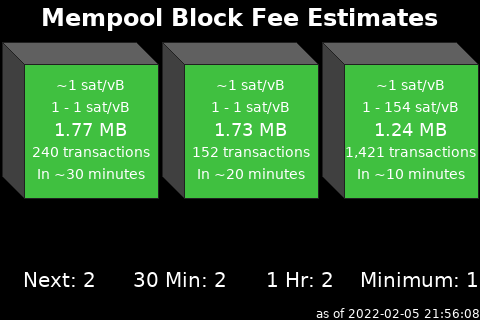
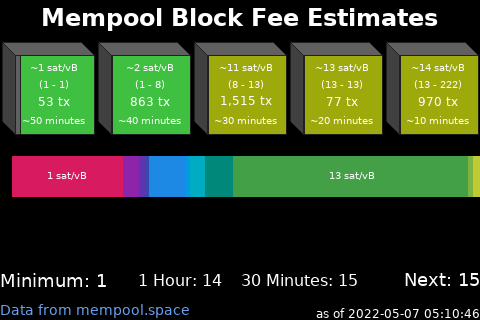
Add fee histogram to mempool panel

diff --git a/scripts/mempoolblocks.py b/scripts/mempoolblocks.py
@@ -19,7 +19,35 @@ def convert_size(size_bytes):
    s = round(size_bytes / p, 2)
    return "%s %s" % (s, size_name[i])
 
-def drawmempoolblock(draw,x,y,w,h,blockinfo,mpb):
+def getColorsForBlock(satFee):
+    satFee = float(satFee)
+    b = "#404040"
+    t = "#ffffff"
+    for x in blockSatLevels:
+        satMin = float(0.0)
+        satMax = float(0.0)
+        if "satMin" in x:
+            satMin = float(x["satMin"])
+        if "satMax" in x:
+            satMax = float(x["satMax"])
+        if satMin <= float(satFee):
+            if satMax >= float(satFee):
+                if "colorBlock" in x:
+                    b = x["colorBlock"]
+                if "colorText" in x:
+                    t = x["colorText"]
+    return ImageColor.getrgb(b), ImageColor.getrgb(t)
+
+def getColorForHistogram(satFee):
+    f = "#404040"
+    for x in histogramSatLevels:
+        if "satMin" in x and float(x["satMin"]) <= float(satFee):
+            if "satMax" in x and float(x["satMax"]) >= float(satFee):
+                if "colorFill" in x:
+                    f = x["colorFill"]
+    return ImageColor.getrgb(f)
+
+def drawmempoolblock(draw,x,y,w,h,blockinfo,mpb,mpblen,btr):
     blocksize=blockinfo["blockSize"]
     blockvsize=blockinfo["blockVSize"]
     transactions=blockinfo["nTx"]
@@ -32,19 +60,15 @@ def drawmempoolblock(draw,x,y,w,h,blockinfo,mpb):
     feemedianint = int(math.floor(float(feemedian)))
     depth=int(math.floor(w*.14))
     pad=2
-    colorBlockText = colorTextFG
-    colorBlockFace = colorBlock0
-    colorBlockFace = colorBlock1 if feelowint > satLevel1 else colorBlockFace
-    colorBlockFace = colorBlock2 if feelowint > satLevel2 else colorBlockFace
-    colorBlockFace = colorBlock3 if feelowint > satLevel3 else colorBlockFace
-    colorBlockFace = colorBlock4 if feelowint > satLevel4 else colorBlockFace
-    colorBlockFace = colorBlock5 if feelowint > satLevel5 else colorBlockFace
     draw.polygon(xy=((x+pad,y+pad),(x+pad,y+h-pad-depth),(x+pad+depth,y+h-pad),(x+pad+depth,y+pad+depth)),outline=colorBlockEdgeOutline,fill=colorBlockSide)
     draw.polygon(xy=((x+pad,y+pad),(x+pad+depth,y+pad+depth),(x+w-pad,y+pad+depth),(x+w-pad-depth,y+pad)),outline=colorBlockEdgeOutline,fill=colorBlockTop)
     draw.polygon(xy=((x+pad+depth,y+pad+depth),(x+w-pad,y+pad+depth),(x+w-pad,y+h-pad),(x+pad+depth,y+h-pad)),outline=colorBlockEdgeOutline,fill=colorBlockFace)
+    fillxstart=(x+w-pad)-int(float((x+w-pad)-(x+pad+depth))*float(float(blockvsize)/float(1000000)))
+    colorBlockFaceMedian, colorBlockText = getColorsForBlock(feemedian)
+    draw.polygon(xy=((fillxstart,y+pad+depth),(x+w-pad,y+pad+depth),(x+w-pad,y+h-pad),(fillxstart,y+h-pad)),outline=colorBlockEdgeOutline,fill=colorBlockFaceMedian)
     centerx=x+depth+(int(math.floor((w-depth)/2)))
     # Text labels
-    if blocksToRender == 3:
+    if btr <= 3:
         descriptor="~" + str(feemedianint) + " sat/vB"
         vicarioustext.drawcenteredtext(draw, descriptor, 14, centerx, y+pad+(depth*2),colorBlockText)
         descriptor=str(feelowint) + " - " + str(feehighint) + " sat/vB"
@@ -56,7 +80,7 @@ def drawmempoolblock(draw,x,y,w,h,blockinfo,mpb):
         vicarioustext.drawcenteredtext(draw, descriptor, 14, centerx, y+pad+(depth*5),colorBlockText)
         descriptor="In ~" + str((mpb+1)*10) + " minutes"
         vicarioustext.drawcenteredtext(draw, descriptor, 14, centerx, y+pad+(depth*6),colorBlockText)
-    if blocksToRender == 4:
+    if btr == 4:
         descriptor="~" + str(feemedianint) + " sat/vB"
         vicarioustext.drawcenteredtext(draw, descriptor, 12, centerx, y+pad+(depth*2),colorBlockText)
         descriptor="(" + str(feelowint) + " - " + str(feehighint) + ")"
@@ -68,7 +92,7 @@ def drawmempoolblock(draw,x,y,w,h,blockinfo,mpb):
         vicarioustext.drawcenteredtext(draw, descriptor, 12, centerx, y+pad+(depth*5),colorBlockText)
         descriptor="In ~" + str((mpb+1)*10) + " minutes"
         vicarioustext.drawcenteredtext(draw, descriptor, 12, centerx, y+pad+(depth*6),colorBlockText)
-    if blocksToRender == 5:
+    if btr == 5:
         descriptor="~" + str(feemedianint) + " sat/vB"
         vicarioustext.drawcenteredtext(draw, descriptor, 10, centerx, y+pad+(depth*2),colorBlockText)
         descriptor="(" + str(feelowint) + " - " + str(feehighint) + ")"
@@ -78,7 +102,7 @@ def drawmempoolblock(draw,x,y,w,h,blockinfo,mpb):
         vicarioustext.drawcenteredtext(draw, descriptor, 12, centerx, y+pad+(depth*4.6),colorBlockText)
         descriptor="~" + str((mpb+1)*10) + " minutes"
         vicarioustext.drawcenteredtext(draw, descriptor, 10, centerx, y+pad+(depth*6),colorBlockText)
-    if blocksToRender == 6:
+    if btr == 6:
         descriptor="~" + str(feemedianint) + " sat/vB"
         vicarioustext.drawcenteredtext(draw, descriptor, 9, centerx, y+pad+(depth*2),colorBlockText)
         descriptor="(" + str(feelowint) + " - " + str(feehighint) + ")"
@@ -87,25 +111,80 @@ def drawmempoolblock(draw,x,y,w,h,blockinfo,mpb):
         descriptor="~" + str((mpb+1)*10) + " mins"
         vicarioustext.drawcenteredtext(draw, descriptor, 9, centerx, y+pad+(depth*6),colorBlockText)
 
+def drawhistogrambar(draw,bw,curhistvsize,curhistsatfee,histx1,histx2,histy1,histy2,padtop):
+    histpixelwidth = int(float(bw) * (float(curhistvsize)/float(1000000)))
+    histtext = str(int(curhistsatfee)) + " sat/vB"
+    histtextw, histtexth, histtextfont = vicarioustext.gettextdimensions(draw, histtext, 10, False)
+    histcolor = getColorForHistogram(curhistsatfee)
+    histx1 = histx2 - histpixelwidth
+    draw.polygon(xy=((histx1,histy1),(histx2,histy1),(histx2,histy2),(histx1,histy2)),fill=histcolor)
+    if histtextw < histpixelwidth:
+        vicarioustext.drawcenteredtext(draw, histtext, 10, (histx1+int(histpixelwidth/2)), (histy1+int(padtop/2)))
+    return histx1
+
+
 def createimage(width=480, height=320):
-    mempoolblocks = getmempoolblocks()
-    feefastest, feehalfhour, feehour, feeminimum = getrecommendedfees()
-    bw = width/blocksToRender
     padtop=40
     im = Image.new(mode="RGB", size=(width, height), color=colorBackground)
     draw = ImageDraw.Draw(im)
+    # header
+    vicarioustext.drawcenteredtext(draw, "Mempool Block Fee Estimates", 24, int(width/2), int(padtop/2), colorTextFG, True)
+    # blocks
+    mempoolblocks = getmempoolblocks()
     mpblist=list(mempoolblocks)
     mpblen=len(mpblist)
+    btr=blocksToRender
+    btr=mpblen if btr > mpblen else btr
+    btr=3 if btr < 3 else btr
+    bw=width/btr
     for mpb in range(mpblen):
-        if mpb > (blocksToRender -1):
+        if mpb > (btr -1):
             break
-        drawmempoolblock(draw,(width-((mpb+1)*bw)),padtop,bw,bw,mpblist[mpb],mpb)
-    vicarioustext.drawcenteredtext(draw, "Mempool Block Fee Estimates", 24, int(width/2), int(padtop/2), colorTextFG, True)
+        drawmempoolblock(draw,(width-((mpb+1)*bw)),padtop,bw,bw,mpblist[mpb],mpb,mpblen,btr)
+    # histogram info
+    histogramdata = gethistograminfo()
+    histy1=padtop+bw+int(padtop/2)
+    histy2=histy1+padtop
+    histx1=0
+    histx2=width
+    histlist=list(histogramdata["fee_histogram"])
+    histlen=len(histlist)
+    curhistsatfee = 0 # to consolidate like fees
+    curhistvsize = 0
+    for histidx in range(histlen):
+        histrender = False
+        histsatfee = int(histlist[histidx][0])
+        histvsize = int(histlist[histidx][1])
+        if histidx == 0:
+            curhistsatfee = histsatfee
+            curhistvsize = histvsize
+            if histlen == 1:
+                histrender = True
+            else:
+                if int(histlist[histidx+1][0]) != histsatfee:
+                    histrender = True
+        else:
+            if histsatfee == curhistsatfee:
+                curhistvsize += histvsize
+            else:
+                histrender = True
+        if histrender:
+            histx1 = drawhistogrambar(draw,bw,curhistvsize,curhistsatfee,histx1,histx2,histy1,histy2,padtop)
+            histx2 = histx1
+            curhistsatfee = histsatfee
+            curhistvsize = histvsize
+            if histx2 <= 0:
+                break
+    histx1 = drawhistogrambar(draw,bw,curhistvsize,curhistsatfee,histx1,histx2,histy1,histy2,padtop)
+    # fee recommendations
+    feefastest, feehalfhour, feehour, feeminimum = getrecommendedfees()
     vicarioustext.drawlefttext(draw, "Minimum: " + str(feeminimum), 18, 0, height-padtop, colorTextFG)
     vicarioustext.drawcenteredtext(draw, "1 Hour: " + str(feehour), 16, int(width/8*3), height-padtop, colorTextFG)
     vicarioustext.drawcenteredtext(draw, "30 Minutes: " + str(feehalfhour), 16, int(width/8*5), height-padtop, colorTextFG)
     vicarioustext.drawrighttext(draw, "Next: " + str(feefastest), 18, width, height-padtop, colorTextFG)
+    # footer
     vicarioustext.drawbottomrighttext(draw, "as of " + vicarioustext.getdateandtime(), 12, width, height, colorTextFG)
+    vicarioustext.drawbottomlefttext(draw, "Data from mempool.space", 14, 0, height, colorMempool)
     im.save(outputFile)
 
 def getmempoolblocks():
@@ -128,6 +207,17 @@ def getrecommendedfees():
     except subprocess.CalledProcessError as e:
         return 1, 1, 1, 1
 
+def gethistograminfo():
+    cmd = "curl --silent " + urlfeehistogram
+    try:
+        cmdoutput = subprocess.check_output(cmd, shell=True).decode("utf-8")
+        j = json.loads(cmdoutput)
+        return j
+    except subprocess.CalledProcessError as e:
+        cmdoutput = '{"count":0,"vsize":0,"total_fee":0,"fee_histogram":[]}'
+        j = json.loads(cmdoutput)
+        return j
+
 
 if __name__ == '__main__':
     # Defaults
@@ -135,22 +225,45 @@ if __name__ == '__main__':
     outputFile="/home/nodeyez/nodeyez/imageoutput/mempoolblocks.png"
     urlmempool="https://mempool.space/api/v1/fees/mempool-blocks"
     urlfeerecs="https://mempool.space/api/v1/fees/recommended"
+    urlfeehistogram="https://mempool.space/api/mempool"
+    colorBackground=ImageColor.getrgb("#000000")
     colorBlockEdgeOutline=ImageColor.getrgb("#202020")
     colorBlockSide=ImageColor.getrgb("#404040")
-    colorBlockTop=ImageColor.getrgb("#606060")
+    colorBlockTop=ImageColor.getrgb("#505050")
+    colorBlockFace=ImageColor.getrgb("#606060")
     colorTextFG=ImageColor.getrgb("#ffffff")
-    colorBlock0=ImageColor.getrgb("#40C040")
-    colorBlock1=ImageColor.getrgb("#c0ca33")
-    colorBlock2=ImageColor.getrgb("#fdd835")
-    colorBlock3=ImageColor.getrgb("#f4511e")
-    colorBlock4=ImageColor.getrgb("#b71c1c")
-    colorBlock5=ImageColor.getrgb("#4a148c")
-    colorBackground=ImageColor.getrgb("#000000")
-    satLevel1=10
-    satLevel2=30
-    satLevel3=60
-    satLevel4=100
-    satLevel5=150
+    colorMempool=ImageColor.getrgb("#699fed")
+    blockSatLevels = [
+        {"satMin": 0.0, "satMax": 10.0, "colorBlock": "#40c040", "colorText": "#ffffff"},
+        {"satMin": 10.0, "satMax": 30.0, "colorBlock": "#9ea90b", "colorText": "#ffffff"},
+        {"satMin": 30.0, "satMax": 60.0, "colorBlock": "#d1ac08", "colorText": "#ffffff"},
+        {"satMin": 60.0, "satMax": 100.0, "colorBlock": "#f4511e", "colorText": "#ffffff"},
+        {"satMin": 100.0, "satMax": 150.0, "colorBlock": "#b71c1c", "colorText": "#ffffff"},
+        {"satMin": 150.0, "satMax": 9999.0, "colorBlock": "#4a148c", "colorText": "#ffffff"}
+    ]
+    histogramSatLevels = [
+        {"satMin": 0.0, "satMax": 2.0, "colorFill": "#d81b60"},
+        {"satMin": 2.0, "satMax": 3.0, "colorFill": "#8e24aa"},
+        {"satMin": 3.0, "satMax": 4.0, "colorFill": "#5e35b1"},
+        {"satMin": 4.0, "satMax": 5.0, "colorFill": "#3949ab"},
+        {"satMin": 5.0, "satMax": 6.0, "colorFill": "#1e88e5"},
+        {"satMin": 6.0, "satMax": 8.0, "colorFill": "#039be5"},
+        {"satMin": 8.0, "satMax": 10.0, "colorFill": "#00acc1"},
+        {"satMin": 10.0, "satMax": 12.0, "colorFill": "#00897b"},
+        {"satMin": 12.0, "satMax": 15.0, "colorFill": "#43a047"},
+        {"satMin": 15.0, "satMax": 20.0, "colorFill": "#7cb342"},
+        {"satMin": 20.0, "satMax": 30.0, "colorFill": "#c0ca33"},
+        {"satMin": 30.0, "satMax": 40.0, "colorFill": "#fdd835"},
+        {"satMin": 40.0, "satMax": 50.0, "colorFill": "#ffb300"},
+        {"satMin": 50.0, "satMax": 60.0, "colorFill": "#fb8c00"},
+        {"satMin": 60.0, "satMax": 70.0, "colorFill": "#f4511e"},
+        {"satMin": 70.0, "satMax": 80.0, "colorFill": "#6d4c41"},
+        {"satMin": 80.0, "satMax": 90.0, "colorFill": "#757575"},
+        {"satMin": 90.0, "satMax": 100.0, "colorFill": "#546e7a"},
+        {"satMin": 100.0, "satMax": 125.0, "colorFill": "#b71c1c"},
+        {"satMin": 125.0, "satMax": 150.0, "colorFill": "#880e4f"},
+        {"satMin": 150.0, "satMax": 9999.0, "colorFill": "#4a148c"}
+    ]
     blocksToRender=3
     sleepInterval=300
     # Override config
@@ -168,38 +281,22 @@ if __name__ == '__main__':
             sleepInterval = 300 if (sleepInterval < 300 and "mempool.space" in urlmempool) else sleepInterval # 5 minutes minimum when accessing others
         if "blocksToRender" in config:
             blocksToRender = int(config["blocksToRender"])
+            blocksToRender = 6 if blocksToRender > 6 else blocksToRender
+            blocksToRender = 3 if blocksToRender < 3 else blocksToRender
         if "colorBlockEdgeOutline" in config:
             colorBlockEdgeOutline = ImageColor.getrgb(config["colorBlockEdgeOutline"])
         if "colorBlockSide" in config:
             colorBlockSide = ImageColor.getrgb(config["colorBlockSide"])
         if "colorBlockTop" in config:
             colorBlockTop = ImageColor.getrgb(config["colorBlockTop"])
-        if "colortextFG" in config:
+        if "colorBlockFace" in config:
+            colorBlockFace = ImageColor.getrgb(config["colorBlockFace"])
+        if "colorTextFG" in config:
             colorTextFG = ImageColor.getrgb(config["colorTextFG"])
-        if "colorBlock0" in config:
-            colorBlock0 = ImageColor.getrgb(config["colorBlock0"])
-        if "colorBlock1" in config:
-            colorBlock1 = ImageColor.getrgb(config["colorBlock1"])
-        if "colorBlock2" in config:
-            colorBlock2 = ImageColor.getrgb(config["colorBlock2"])
-        if "colorBlock3" in config:
-            colorBlock3 = ImageColor.getrgb(config["colorBlock3"])
-        if "colorBlock4" in config:
-            colorBlock4 = ImageColor.getrgb(config["colorBlock4"])
-        if "colorBlock5" in config:
-            colorBlock6 = ImageColor.getrgb(config["colorBlock5"])
-        if "colorBackground" in config:
-            colorBackground = ImageColor.getrgb(config["colorBackground"])
-        if "satLevel1" in config:
-            satLevel1 = int(config["satLevel1"])
-        if "satLevel2" in config:
-            satLevel2 = int(config["satLevel2"])
-        if "satLevel3" in config:
-            satLevel3 = int(config["satLevel3"])
-        if "satLevel4" in config:
-            satLevel4 = int(config["satLevel4"])
-        if "satLevel5" in config:
-            satLevel5 = int(config["satLevel5"])
+        if "blockSatLevels" in config:
+            blockSatLevels = config["blockSatLevels"]
+        if "histogramSatLevels" in config:
+            histogramSatLevels = config["histogramSatLevels"]
 
     # Check for single run
     if len(sys.argv) > 1:

diff --git a/docs/script-mempoolblocks.md b/docs/script-mempoolblocks.md
@@ -40,21 +40,71 @@ at [/home/nodeyez/nodeyez/scripts/mempoolblocks.py](../scripts/mempoolblocks.py)
    | sleepInterval | The amount of time, in seconds, the script should wait before data gathering and image creation again. Default `300` |
    | urlmempool | The url for the mempool blocks information. If you are running your own mempool.space service on MyNodeBTC, then use http://127.0.0.1:4080/api/v1/fees/mempool-blocks. Default `https://mempool.space/api/v1/fees/mempool-blocks` |
    | urlfeerecs | The url for the mempool fees recommendation. If you are running your own mempool.space service on MyNodeBTC, then use http://127.0.0.1:4080/api/v1/fees/recommended. Default `https://mempool.space/api/v1/fees/recommended` |
+   | urlfeehistogram | The url for the mempool fee histogram data. If you are running your own mempool.space service on MyNodeBTC, then use http://127.0.0.1:4080/api/mempool. Default `https://mempool.space/api/mempool` |
    | colorBlockEdgeOutline | The color to use for the outline of block shapes expressed as a Hexadecimal color specifier. Default `#202020` |
    | colorBlockSide | The color to use for the side of the block expressed as a Hexadecimal color specifier. Default `#404040` |
    | colorBlockTop | The color to use for the top of the block expressed as a Hexadecimal color specifier. Default `#606060` |
-   | satLevel1 | The recommended fee level to render blocks with colorBlock1 as sats per vbyte. Default `10` |
-   | satLevel2 | The recommended fee level to render blocks with colorBlock2 as sats per vbyte. Default `30` |
-   | satLevel3 | The recommended fee level to render blocks with colorBlock3 as sats per vbyte. Default `60` |
-   | satLevel4 | The recommended fee level to render blocks with colorBlock4 as sats per vbyte. Default `100` |
-   | satLevel5 | The recommended fee level to render blocks with colorBlock5 as sats per vbyte. Default `150` |
-   | colorBlock0 | The default color to use for the face of the block expressed as a Hexadecimal color specifier. Default `#40c040` |
-   | colorBlock1 | The color to use for blocks higher where recommended fee is higher than satLevel1 expressed as a Hexadecimal color specifier. Default `#c0ca33` |
-   | colorBlock2 | The color to use for blocks higher where recommended fee is higher than satLevel2 expressed as a Hexadecimal color specifier. Default `#fdd83f` |
-   | colorBlock3 | The color to use for blocks higher where recommended fee is higher than satLevel3 expressed as a Hexadecimal color specifier. Default `#f4511e` |
-   | colorBlock4 | The color to use for blocks higher where recommended fee is higher than satLevel4 expressed as a Hexadecimal color specifier. Default `#b71c1c` |
-   | colorBlock5 | The color to use for blocks higher where recommended fee is higher than satLevel5 expressed as a Hexadecimal color specifier. Default `#4a148c` |
+   | blockSatLevels | A array of one or more block sat level definitions to influence block color rendering by median sat/vB. The structure of a satlevel definition is defined below. |
+   | histogramSatLevels | An array of one or more histogram sat level definitions to show fee level histogram by sat/vB of transactions in the mempool. The structure is defined below. |
    | blocksToRender | The maximum number (1-6) of upcoming blocks to render which will influence the size of the blocks drawn. Default `3` |
+
+   __blockSatLevels__
+
+   | field name | description |
+   | --- | --- |
+   | satMin | The minimum sat/vbyte value to apply this colorset |
+   | satMax | The maximum sat/vbyte value to apply this colorset |
+   | colorBlock | The color to use for the face of the block when the sat/vbyte is within range of satMin-satMax |
+   | colorText | The color to use for the text of the block when the sat/vbyte is within range of satMin-satMax |
+
+   Default definition based on mempool.space
+
+   ```json
+   blockSatLevels = [
+     {"satMin": 0.0, "satMax": 10.0, "colorBlock": "#40c040", "colorText": "#ffffff"},
+     {"satMin": 10.0, "satMax": 30.0, "colorBlock": "#9ea90b", "colorText": "#ffffff"},
+     {"satMin": 30.0, "satMax": 60.0, "colorBlock": "#d1ac08", "colorText": "#ffffff"},
+     {"satMin": 60.0, "satMax": 100.0, "colorBlock": "#f4511e", "colorText": "#ffffff"},
+     {"satMin": 100.0, "satMax": 150.0, "colorBlock": "#b71c1c", "colorText": "#ffffff"},
+     {"satMin": 150.0, "satMax": 9999.0, "colorBlock": "#4a148c", "colorText": "#ffffff"}
+   ]
+   ```
+
+   __histogramSatLevels__
+
+   | field name | description |
+   | --- | --- |
+   | satMin | The minimum sat/vbyte value to apply this colorset |
+   | satMax | The maximum sat/vbyte value to apply this colorset |
+   | colorFill | The color to use for the graph portion when the sat/vbyte is within range of satMin-satMax |
+
+   Default definition based on mempool.space
+
+   ```json
+   histogramSatLevels: [
+     {"satMin": 0.0, "satMax": 2.0, "colorFill": "#d81b60"},
+     {"satMin": 2.0, "satMax": 3.0, "colorFill": "#8e24aa"},
+     {"satMin": 3.0, "satMax": 4.0, "colorFill": "#5e35b1"},
+     {"satMin": 4.0, "satMax": 5.0, "colorFill": "#3949ab"},
+     {"satMin": 5.0, "satMax": 6.0, "colorFill": "#1e88e5"},
+     {"satMin": 6.0, "satMax": 8.0, "colorFill": "#039be5"},
+     {"satMin": 8.0, "satMax": 10.0, "colorFill": "#00acc1"},
+     {"satMin": 10.0, "satMax": 12.0, "colorFill": "#00897b"},
+     {"satMin": 12.0, "satMax": 15.0, "colorFill": "#43a047"},
+     {"satMin": 15.0, "satMax": 20.0, "colorFill": "#7cb342"},
+     {"satMin": 20.0, "satMax": 30.0, "colorFill": "#c0ca33"},
+     {"satMin": 30.0, "satMax": 40.0, "colorFill": "#fdd835"},
+     {"satMin": 40.0, "satMax": 50.0, "colorFill": "#ffb300"},
+     {"satMin": 50.0, "satMax": 60.0, "colorFill": "#fb8c00"},
+     {"satMin": 60.0, "satMax": 70.0, "colorFill": "#f4511e"},
+     {"satMin": 70.0, "satMax": 80.0, "colorFill": "#6d4c41"},
+     {"satMin": 80.0, "satMax": 90.0, "colorFill": "#757575"},
+     {"satMin": 90.0, "satMax": 100.0, "colorFill": "#546e7a"},
+     {"satMin": 100.0, "satMax": 125.0, "colorFill": "#b71c1c"},
+     {"satMin": 125.0, "satMax": 150.0, "colorFill": "#880e4f"},
+     {"satMin": 150.0, "satMax": 9999.0, "colorFill": "#4a148c"}
+   ]
+   ```
 
    After making changes, Save (CTRL+O) and Exit (CTRL+X) nano.
 

diff --git a/CHANGELOG.md b/CHANGELOG.md
@@ -16,6 +16,7 @@ New Panels and Enhancements
 - Enhanced Daily Data Retrieval - support for slushpool data 
 - Enhanced Raretoshi panel to allow for traversing user randomly
 - Enhanced Raretoshi panel to support QR code hyperlink
+- Enhanced Mempool panel to show fee histogram as a bar and improve config
 
 General
 - Externalized configuration from scripts to json files
